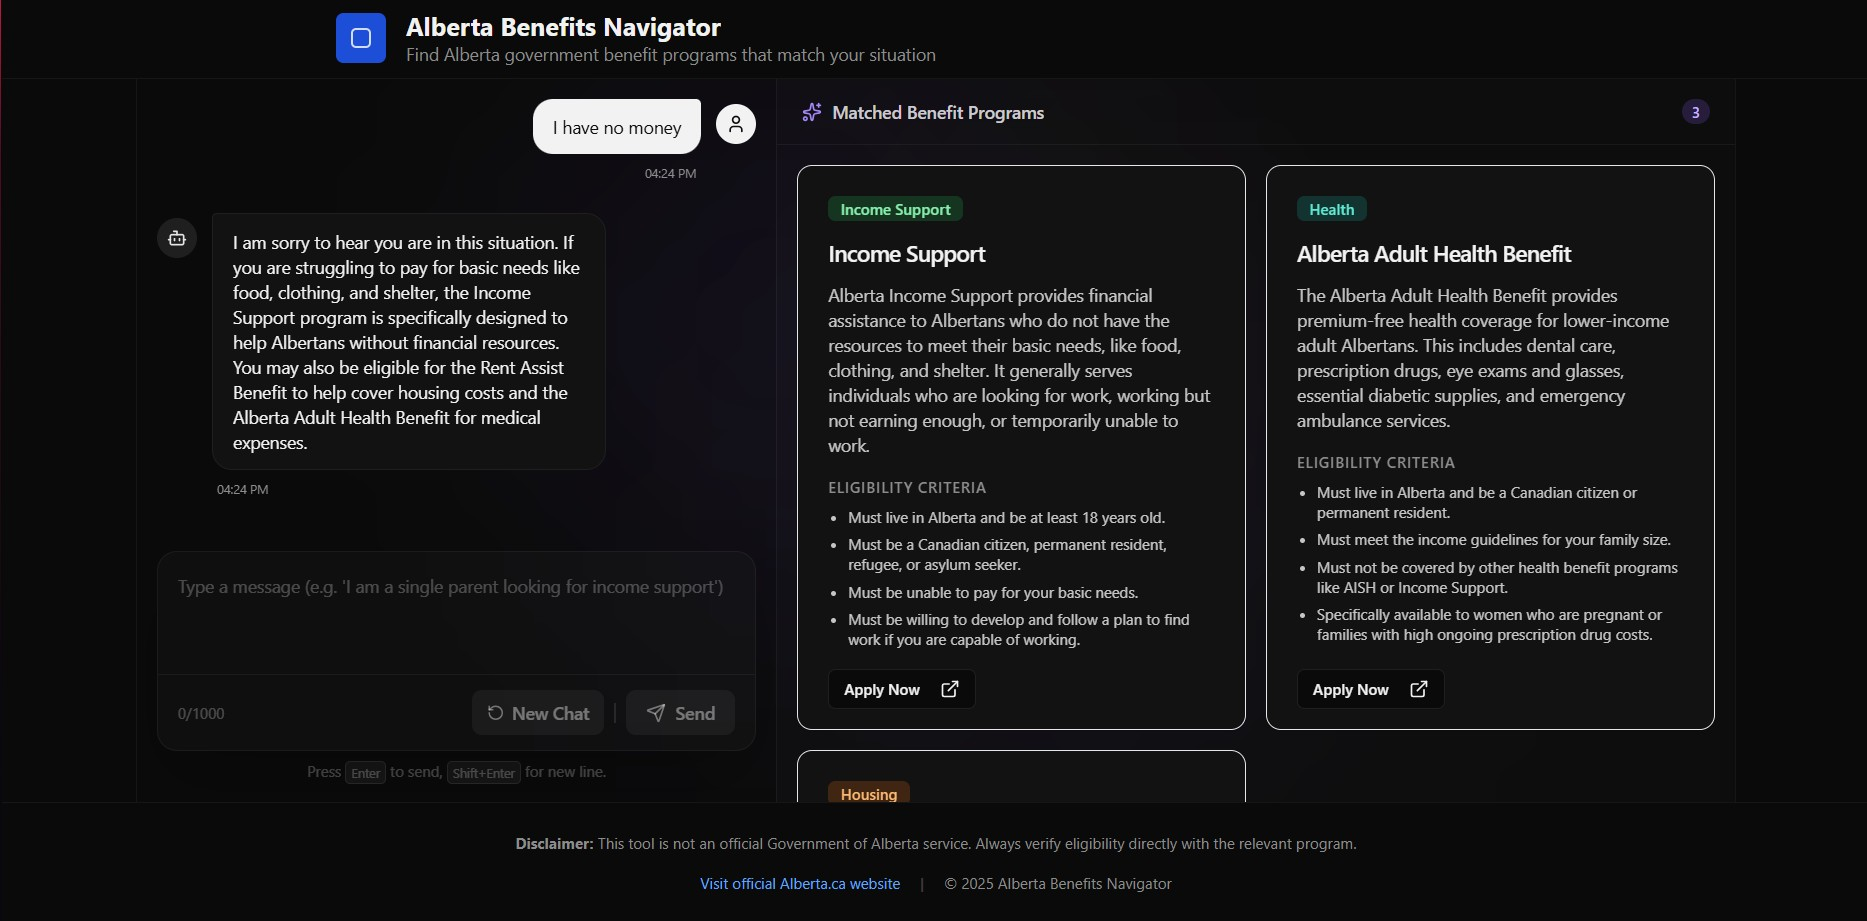
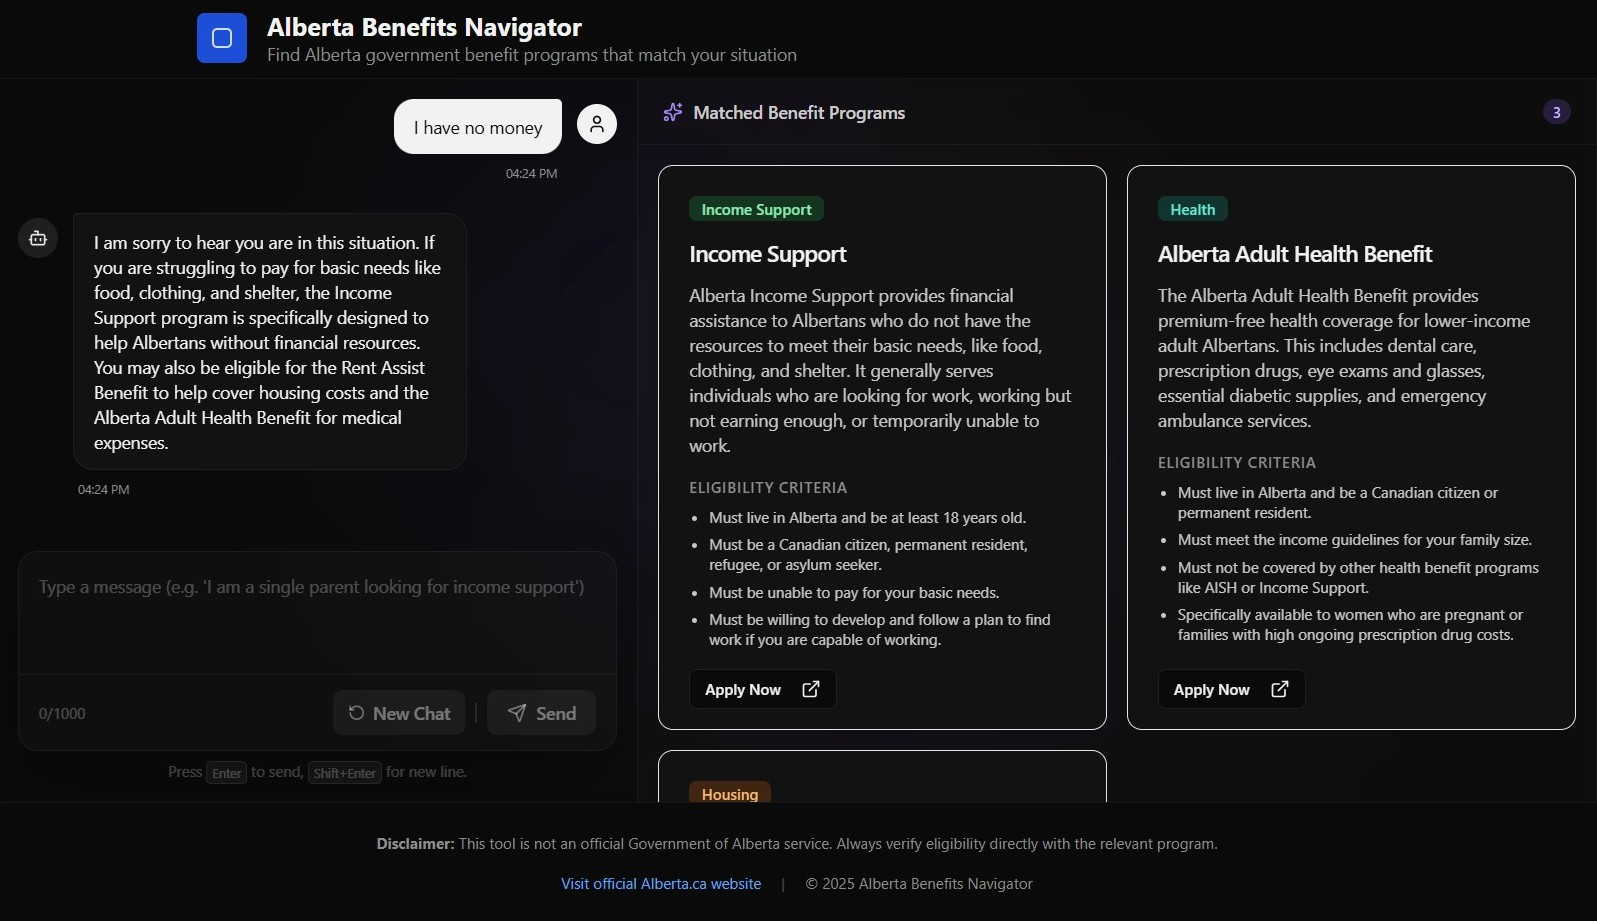
feat: Update Projects section, including project data, types, and a display component with card layouts.

diff --git a/src/components/sections/Projects.tsx b/src/components/sections/Projects.tsx
@@ -1,10 +1,11 @@
-import { Github, ExternalLink, Clock, Terminal, Lock, ChevronDown } from 'lucide-react';
-import { useState } from 'react';
+import { Github, ExternalLink, Clock, Terminal, Lock, ChevronDown, X } from 'lucide-react';
+import { useState, useEffect, useRef, useCallback } from 'react';
 import { PROJECTS } from '../../data/projects';
 import SectionHeader from '../ui/SectionHeader';
 import Badge from '../ui/Badge';
 import { useScrollAnimation } from '../../hooks/useScrollAnimation';
 import type { Project, ProjectStatus } from '../../types';
+import abnChattedImg from '../../assets/images/abn_chatted.jpg';
 
 /* ─── Status colour system ──────────────────────────────────────────────────── */
 
@@ -34,15 +35,6 @@ const STATUS_STYLES: Record<
     },
 };
 
-/* ─── Featured-card mock terminal content ────────────────────────────────────── */
-
-const MOCK_MESSAGES = [
-    { role: 'user' as const, text: 'What benefits am I eligible for?' },
-    {
-        role: 'ai' as const,
-        text: `Based on your situation, here are 3 programs you may qualify for:\n1. AISH — Assured Income\n2. Alberta Works\n3. Child Benefit Supplement`,
-    },
-];
 
 /* ─── Standard Project Card Component ────────────────────────────────────────── */
 
@@ -200,6 +192,35 @@ function StandardProjectCard({ project, idx, isLoneCard }: { project: Project; i
 function Projects() {
     const sectionRef = useScrollAnimation<HTMLElement>();
 
+    // ── Lightbox state ────────────────────────────────────────────────────────
+    const [isLightboxOpen, setIsLightboxOpen] = useState<boolean>(false);
+    const photoTriggerRef = useRef<HTMLButtonElement>(null);
+
+    const openLightbox = (): void => setIsLightboxOpen(true);
+
+    const closeLightbox = useCallback((): void => {
+        setIsLightboxOpen(false);
+        // Return focus to the trigger element
+        setTimeout(() => photoTriggerRef.current?.focus(), 0);
+    }, []);
+
+    // ── Escape key + body scroll lock ─────────────────────────────────────────
+    useEffect(() => {
+        if (!isLightboxOpen) return;
+
+        const onKeyDown = (e: KeyboardEvent): void => {
+            if (e.key === 'Escape') closeLightbox();
+        };
+
+        document.addEventListener('keydown', onKeyDown);
+        document.body.style.overflow = 'hidden';
+
+        return () => {
+            document.removeEventListener('keydown', onKeyDown);
+            document.body.style.overflow = '';
+        };
+    }, [isLightboxOpen, closeLightbox]);
+
     /* Separate standard and featured projects */
     const standardProjects = PROJECTS.filter((p) => !p.featured);
     const featuredProject = PROJECTS.find((p) => p.featured);
@@ -248,8 +269,8 @@ function Projects() {
                         <div className={`h-1 w-full rounded-t-xl ${STATUS_STYLES[featuredProject.status].bar}`} />
 
                         <div className="flex flex-col lg:flex-row">
-                            {/* Left column — 60% */}
-                            <div className="p-6 lg:p-8 lg:w-[60%] flex flex-col">
+                            {/* Left column — 1/3 */}
+                            <div className="p-6 lg:p-8 lg:w-1/3 flex flex-col">
                                 {/* Header row */}
                                 <div className="flex items-start justify-between gap-3 mb-3">
                                     <div className="flex items-center gap-3">
@@ -270,9 +291,16 @@ function Projects() {
                                 </span>
 
                                 {/* Description */}
-                                <p className="text-gray-400 text-sm leading-relaxed mb-5 flex-grow">
-                                    {featuredProject.description}
-                                </p>
+                                <div className="mb-5 flex-grow">
+                                    <p className="text-gray-400 text-sm leading-relaxed mb-3">
+                                        {featuredProject.description}
+                                    </p>
+                                    {featuredProject.disclaimer && (
+                                        <div className="mt-2 text-yellow-500/80 text-[10px] sm:text-xs leading-relaxed italic">
+                                            {featuredProject.disclaimer}
+                                        </div>
+                                    )}
+                                </div>
 
                                 {/* Tech stack */}
                                 <div className="mb-5">
@@ -348,38 +376,26 @@ function Projects() {
                                 </div>
                             </div>
 
-                            {/* Right column — 40% mock terminal */}
+                            {/* Right column — 2/3 image section */}
                             <div
-                                className="lg:w-[40%] p-6 lg:p-8 flex items-center"
+                                className="lg:w-2/3 p-6 lg:p-8 flex items-center justify-center"
                                 aria-hidden="true"
                             >
-                                <div className="w-full bg-black/40 rounded-xl p-4 font-mono text-xs space-y-4 border border-white/5">
-                                    {/* Terminal title bar */}
-                                    <div className="flex items-center gap-1.5 mb-3">
-                                        <span className="w-2.5 h-2.5 rounded-full bg-red-500/80" />
-                                        <span className="w-2.5 h-2.5 rounded-full bg-yellow-500/80" />
-                                        <span className="w-2.5 h-2.5 rounded-full bg-green-500/80" />
-                                        <span className="ml-2 text-gray-600 text-[10px]">benefits-navigator</span>
-                                    </div>
-
-                                    {/* Chat messages */}
-                                    {MOCK_MESSAGES.map((msg, i) => (
-                                        <div key={i} className="space-y-1">
-                                            <span className={msg.role === 'user' ? 'text-gray-400' : 'text-green-400'}>
-                                                {msg.role === 'user' ? '> User: ' : '> AI: '}
-                                            </span>
-                                            <p
-                                                className={`whitespace-pre-wrap pl-2 ${msg.role === 'user' ? 'text-gray-400' : 'text-green-400'
-                                                    }`}
-                                            >
-                                                {msg.text}
-                                            </p>
-                                        </div>
-                                    ))}
-
-                                    {/* Blinking cursor */}
-                                    <span className="inline-block w-2 h-4 bg-green-400 animate-pulse" />
-                                </div>
+                                <button
+                                    ref={photoTriggerRef}
+                                    type="button"
+                                    onClick={openLightbox}
+                                    className="w-full relative group bg-black/40 rounded-xl overflow-hidden shadow-2xl shadow-electric-500/10 border border-white/5 cursor-zoom-in focus:outline-none focus-visible:ring-2 focus-visible:ring-electric-500 focus-visible:ring-offset-2 focus-visible:ring-offset-navy-900"
+                                    aria-label="View full featured project image"
+                                >
+                                    <div className="absolute inset-0 bg-gradient-to-t from-[#0A0F1C] via-transparent to-transparent opacity-60 z-10 transition-opacity duration-300 group-hover:opacity-30"></div>
+                                    <img
+                                        src={abnChattedImg}
+                                        alt="Alberta Benefits Navigator chat interface"
+                                        className="w-full block h-auto object-cover max-h-[600px] transition-transform duration-700 ease-in-out group-hover:scale-105"
+                                        loading="lazy"
+                                    />
+                                </button>
                             </div>
                         </div>
                     </div>
@@ -403,6 +419,44 @@ function Projects() {
                     })}
                 </div>
             </div>
+
+            {/* ── Photo Lightbox ────────────────────────────────────────────── */}
+            {isLightboxOpen && (
+                <div
+                    className="fixed inset-0 z-[100] flex items-center justify-center
+                               bg-black/80 backdrop-blur-sm
+                               animate-fade-in cursor-zoom-out"
+                    role="dialog"
+                    aria-modal="true"
+                    aria-label="Featured project fullscreen view"
+                    onClick={closeLightbox}
+                >
+                    {/* Close button */}
+                    <button
+                        type="button"
+                        onClick={closeLightbox}
+                        className="absolute top-4 right-4 z-10 p-2 rounded-lg
+                                   text-white/80 hover:text-white hover:bg-white/10
+                                   transition-colors duration-200"
+                        aria-label="Close photo"
+                    >
+                        <X className="w-6 h-6" />
+                    </button>
+
+                    {/* Full image */}
+                    <div
+                        className="flex flex-col items-center"
+                        onClick={(e: React.MouseEvent) => e.stopPropagation()}
+                    >
+                        <img
+                            src={abnChattedImg}
+                            alt="Alberta Benefits Navigator chat interface — full photo"
+                            className="max-h-[90vh] max-w-[90vw] object-contain rounded-lg
+                                       shadow-2xl shadow-black/50"
+                        />
+                    </div>
+                </div>
+            )}
         </section>
     );
 }

diff --git a/src/data/projects.ts b/src/data/projects.ts
@@ -10,10 +10,12 @@ export const PROJECTS: Project[] = [
     {
         title: 'Alberta Benefits Navigator',
         description:
-            'The flagship project. A public-facing AI chatbot that matches Albertans to government benefit programs based on their situation. Full stack with conversation state, PostgreSQL session history, and an AI model doing the matching and response generation.',
-        stack: ['React', 'TypeScript', 'Node.js', 'PostgreSQL', 'Anthropic SDK', 'REST APIs'],
-        status: 'coming-soon',
+            'A conversational AI tool that helps Albertans discover government benefit programs they may be eligible for. Built with React, TypeScript, and Vite on the frontend, Vercel serverless functions for the API, Supabase for session persistence, and Google Gemini for AI-powered benefit matching.',
+        stack: ['React', 'TypeScript', 'Vite', 'Tailwind CSS', 'Google Gemini', 'Supabase', 'Playwright'],
+        status: 'finished',
         featured: true,
+        githubUrl: 'https://github.com/KVOclares/Alberta-Benefits-Navigator',
+        disclaimer: 'Disclaimer: This tool is not an official Government of Alberta service. Always verify eligibility directly with the relevant program.',
     },
     {
         id: "goa-cloud-cost-dashboard",

diff --git a/src/types/index.ts b/src/types/index.ts
@@ -87,6 +87,7 @@ export interface Project {
     organization?: string;
     environment?: string;
     isInternal?: boolean;
+    disclaimer?: string;
 }
 
 // ─── Education ──────────────────────────────────────────────────────────────────
